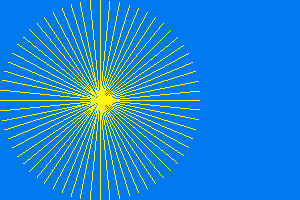
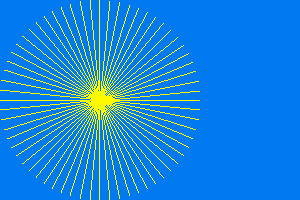
Don't use quads. Use triangles.

diff --git a/simp.c b/simp.c
@@ -232,6 +232,8 @@ int glfwGetError(const char** out_error) {
 void glfwGetFramebufferSize() {*(volatile int*)0;}
 void glfwGetGamepadState() {*(volatile int*)0;}
 void glfwGetJoystickName() {*(volatile int*)0;}
+void glfwGetKeyName() {*(volatile int*)0;}
+void glfwGetKeyScancode() {*(volatile int*)0;}
 void glfwGetMonitorName() {*(volatile int*)0;}
 void glfwGetMonitorPhysicalSize() {*(volatile int*)0;}
 void glfwGetMonitorPos(void* monitor, int* xpos, int* ypos) { *xpos = *ypos = 0; }
@@ -322,6 +324,7 @@ void glfwSetWindowFocusCallback(void* monitor_h, func_t func) {}
 void glfwSetWindowIconifyCallback(void* monitor_h, func_t func) {}
 void glfwSetWindowMaximizeCallback(void* monitor_h, func_t func) {}
 void glfwSetWindowSizeCallback(void* monitor_h, func_t func) {}
+void glfwSetWindowPosCallback(void* monitor_h, func_t func) {}
 
 #define RL_MODELVIEW_I  0
 #define RL_PROJECTION_I 1

diff --git a/external/raylib/config.h b/external/raylib/config.h
@@ -146,7 +146,7 @@
 //------------------------------------------------------------------------------------
 // Use QUADS instead of TRIANGLES for drawing when possible
 // Some lines-based shapes could still use lines
-#define SUPPORT_QUADS_DRAW_MODE         1
+//#define SUPPORT_QUADS_DRAW_MODE         1
 
 // rshapes: Configuration values
 //------------------------------------------------------------------------------------

diff --git a/external/raylib/rcore.c b/external/raylib/rcore.c
@@ -110,7 +110,7 @@
 #include <time.h>                   // Required for: time() [Used in InitTimer()]
 #include <math.h>                   // Required for: tan() [Used in BeginMode3D()], atan2f() [Used in LoadVrStereoConfig()]
 
-#define RLGL_IMPLEMENTATION
+//#define RLGL_IMPLEMENTATION
 #include "rlgl.h"                   // OpenGL abstraction layer to OpenGL 1.1, 3.3+ or ES2
 
 #define RAYMATH_IMPLEMENTATION
